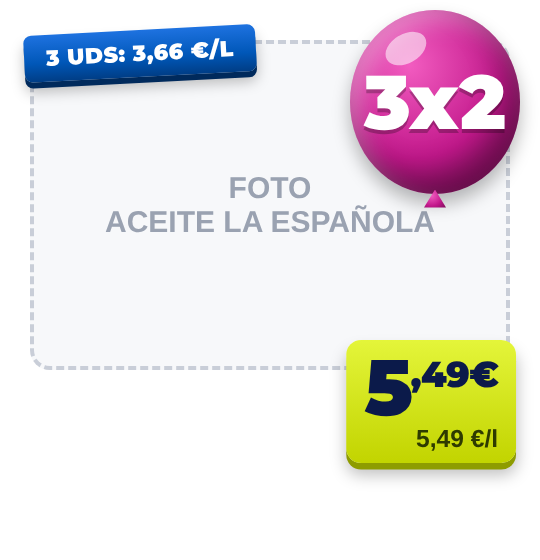
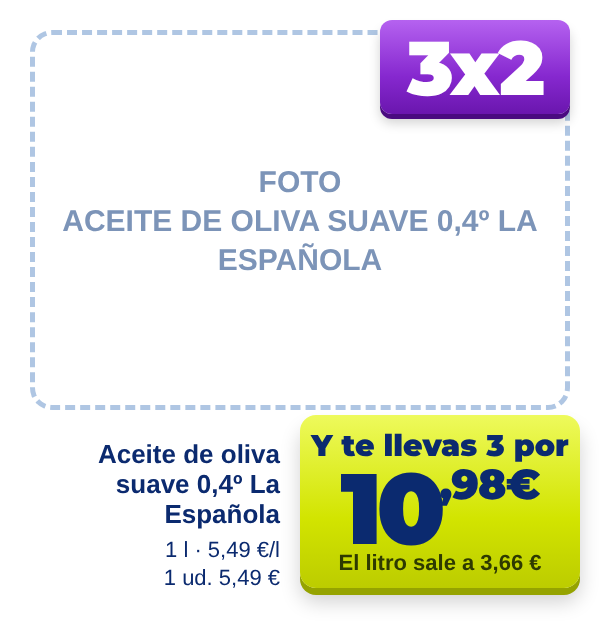
Rediseño calcado al folleto: portada de cielo, globos foil y etiquetas lima
Claude-Session: https://claude.ai/code/session_014n8fruw4BUtYLKWozkJouR

diff --git a/index.html b/index.html
@@ -1,169 +1,68 @@
 <!DOCTYPE html>
 <html lang="es" xmlns="http://www.w3.org/1999/xhtml">
-<head>
-<meta charset="UTF-8">
-<meta name="viewport" content="width=device-width, initial-scale=1.0">
-<meta name="x-apple-disable-message-reformatting">
+<head><meta charset="UTF-8"><meta name="viewport" content="width=device-width, initial-scale=1.0"><meta name="x-apple-disable-message-reformatting">
 <title>Black Friday Mercaviva: hasta −70 %</title>
 <style>
-body{margin:0;padding:0;background:#0B1A4A}
-a{text-decoration:none}
+body{margin:0;padding:0;background:#EEF3F9}
 @media only screen and (max-width:620px){
  .wrap{width:100%!important}
- .col{display:block!important;width:100%!important;max-width:100%!important}
- .gap{display:block!important;width:100%!important;height:20px!important}
+ .col{display:block!important;width:100%!important;max-width:100%!important;box-sizing:border-box!important}
  .fluid{width:100%!important;max-width:100%!important;height:auto!important}
- .hdr td{display:block!important;width:100%!important;box-sizing:border-box!important;text-align:center!important;padding:10px 16px!important}
 }
-</style>
-</head>
-<body style="margin:0;padding:0;background:#0B1A4A">
-<div style="display:none;max-height:0;overflow:hidden;mso-hide:all;font-size:1px;line-height:1px;color:#0B1A4A;opacity:0">Teles, sonido y hasta el aceite al 3x2. Solo hasta el 27 de noviembre.&#847;&zwnj;&nbsp;&#847;&zwnj;&nbsp;&#847;&zwnj;&nbsp;&#847;&zwnj;&nbsp;&#847;&zwnj;&nbsp;&#847;&zwnj;&nbsp;&#847;&zwnj;&nbsp;&#847;&zwnj;&nbsp;</div>
-<table role="presentation" cellpadding="0" cellspacing="0" border="0" width="100%" bgcolor="#0B1A4A" style="background:#0B1A4A">
-<tr><td align="center" style="padding:0">
-<table role="presentation" class="wrap" cellpadding="0" cellspacing="0" border="0" width="600" style="width:600px;max-width:600px;background:#0B1A4A">
+</style></head>
+<body style="margin:0;padding:0;background:#EEF3F9">
+<div style="display:none;max-height:0;overflow:hidden;mso-hide:all;font-size:1px;line-height:1px;color:#EEF3F9;opacity:0">Teles, sonido y hasta el aceite al 3x2. Solo hasta el 27 de noviembre.&#847;&zwnj;&nbsp;&#847;&zwnj;&nbsp;&#847;&zwnj;&nbsp;&#847;&zwnj;&nbsp;&#847;&zwnj;&nbsp;&#847;&zwnj;&nbsp;</div>
+<table role="presentation" cellpadding="0" cellspacing="0" border="0" width="100%" bgcolor="#EEF3F9" style="background:#EEF3F9"><tr><td align="center" style="padding:0">
+<table role="presentation" class="wrap" cellpadding="0" cellspacing="0" border="0" width="600" bgcolor="#FFFFFF" style="width:600px;max-width:600px;background:#FFFFFF">
+<tr><td align="center" style="padding:10px 16px;font-family:Arial, Helvetica, sans-serif;font-size:12px;line-height:18px;color:#4A5878;background:#EEF3F9">
+<strong style="color:#0B2A6F">Publicidad</strong> · Ejercicio académico. Mercaviva es una marca ficticia; no es una comunicación oficial de Carrefour.<br>
+¿No ves bien este email? <a href="{$url}" target="_blank" style="color:#0057B8;text-decoration:underline">Ábrelo en el navegador</a></td></tr>
+<tr><td style="padding:0"><a href="https://www.carrefour.es/lavadora-lg-f2x50s9tlb-9-kg-carga-frontal-1200-rpm-wifi-clase-a-blanco/VC4A-32514266/p?utm_source=newsletter&utm_medium=email&utm_campaign=black_friday_2026&utm_content=lavadora_lg" target="_blank"><img src="https://caarlosfdz.github.io/newsletter-mercaviva/bf-cover.png" width="600" alt="Mercaviva. Black Friday: hasta el 70 % de descuento del 20 de octubre al 27 de noviembre" class="fluid" style="display:block;width:100%;max-width:600px;height:auto;border:0"></a></td></tr>
+<tr><td style="padding:0"><a href="https://www.carrefour.es/lavadora-lg-f2x50s9tlb-9-kg-carga-frontal-1200-rpm-wifi-clase-a-blanco/VC4A-32514266/p?utm_source=newsletter&utm_medium=email&utm_campaign=black_friday_2026&utm_content=lavadora_lg" target="_blank"><img src="https://caarlosfdz.github.io/newsletter-mercaviva/bf-p1.png" width="600" alt="Lavadora LG 9 kg: 164,70 €, antes 549 €, 70 % de descuento" class="fluid" style="display:block;width:100%;max-width:600px;height:auto;border:0"></a></td></tr>
+<tr><td align="center" style="padding:6px 40px 30px"><table role="presentation" cellpadding="0" cellspacing="0" border="0" width="100%"><tr><td align="center" bgcolor="#0057B8" style="border-radius:10px;background:#0057B8">
+<a href="https://www.carrefour.es/lavadora-lg-f2x50s9tlb-9-kg-carga-frontal-1200-rpm-wifi-clase-a-blanco/VC4A-32514266/p?utm_source=newsletter&utm_medium=email&utm_campaign=black_friday_2026&utm_content=lavadora_lg" target="_blank" style="display:block;padding:14px 8px;font-family:Arial, Helvetica, sans-serif;font-size:16px;line-height:20px;font-weight:bold;color:#ffffff;text-decoration:none;text-align:center;border-radius:10px">Lo quiero al −70 %</a></td></tr></table></td></tr>
+<tr><td style="padding:0"><img src="https://caarlosfdz.github.io/newsletter-mercaviva/bf-tit-tecnologia.png" width="600" alt="Ofertas en tecnología: descuentos de hasta el 70 %" class="fluid" style="display:block;width:100%;max-width:600px;height:auto;border:0"></td></tr>
+<tr><td style="padding:0"><table role="presentation" cellpadding="0" cellspacing="0" border="0" width="100%"><tr>
+<td class="col" width="300" valign="top" style="width:300px;vertical-align:top"><a href="https://www.carrefour.es/?utm_source=newsletter&utm_medium=email&utm_campaign=black_friday_2026&utm_content=producto6" target="_blank"><img src="https://caarlosfdz.github.io/newsletter-mercaviva/bf-p6.png" width="300" alt="Producto 6: 95,22 €, antes 218,99 €, −56,5 % y envío gratis" class="fluid" style="display:block;width:100%;max-width:300px;height:auto;border:0"></a>
+<div style="padding:4px 14px 26px"><table role="presentation" cellpadding="0" cellspacing="0" border="0" width="100%"><tr><td align="center" bgcolor="#0057B8" style="border-radius:10px;background:#0057B8">
+<a href="https://www.carrefour.es/?utm_source=newsletter&utm_medium=email&utm_campaign=black_friday_2026&utm_content=producto6" target="_blank" style="display:block;padding:14px 8px;font-family:Arial, Helvetica, sans-serif;font-size:16px;line-height:20px;font-weight:bold;color:#ffffff;text-decoration:none;text-align:center;border-radius:10px">Llévatelo ya</a></td></tr></table></div></td>
+<td class="col" width="300" valign="top" style="width:300px;vertical-align:top"><a href="https://www.carrefour.es/?utm_source=newsletter&utm_medium=email&utm_campaign=black_friday_2026&utm_content=producto2" target="_blank"><img src="https://caarlosfdz.github.io/newsletter-mercaviva/bf-p2.png" width="300" alt="Producto 2: 154,50 €, antes 309 €, −50 %" class="fluid" style="display:block;width:100%;max-width:300px;height:auto;border:0"></a>
+<div style="padding:4px 14px 26px"><table role="presentation" cellpadding="0" cellspacing="0" border="0" width="100%"><tr><td align="center" bgcolor="#0057B8" style="border-radius:10px;background:#0057B8">
+<a href="https://www.carrefour.es/?utm_source=newsletter&utm_medium=email&utm_campaign=black_friday_2026&utm_content=producto2" target="_blank" style="display:block;padding:14px 8px;font-family:Arial, Helvetica, sans-serif;font-size:16px;line-height:20px;font-weight:bold;color:#ffffff;text-decoration:none;text-align:center;border-radius:10px">Aprovecha el −50 %</a></td></tr></table></div></td></tr></table></td></tr>
+<tr><td style="padding:0"><table role="presentation" cellpadding="0" cellspacing="0" border="0" width="100%"><tr>
+<td class="col" width="300" valign="top" style="width:300px;vertical-align:top"><a href="https://www.carrefour.es/?utm_source=newsletter&utm_medium=email&utm_campaign=black_friday_2026&utm_content=producto5" target="_blank"><img src="https://caarlosfdz.github.io/newsletter-mercaviva/bf-p5.png" width="300" alt="Producto 5: 4.877,62 €, antes 6.150,99 €, −20,7 %" class="fluid" style="display:block;width:100%;max-width:300px;height:auto;border:0"></a>
+<div style="padding:4px 14px 26px"><table role="presentation" cellpadding="0" cellspacing="0" border="0" width="100%"><tr><td align="center" bgcolor="#0057B8" style="border-radius:10px;background:#0057B8">
+<a href="https://www.carrefour.es/?utm_source=newsletter&utm_medium=email&utm_campaign=black_friday_2026&utm_content=producto5" target="_blank" style="display:block;padding:14px 8px;font-family:Arial, Helvetica, sans-serif;font-size:16px;line-height:20px;font-weight:bold;color:#ffffff;text-decoration:none;text-align:center;border-radius:10px">Ahorra 1.273 €</a></td></tr></table></div></td>
+<td class="col" width="300" valign="top" style="width:300px;vertical-align:top"><a href="https://www.carrefour.es/?utm_source=newsletter&utm_medium=email&utm_campaign=black_friday_2026&utm_content=producto3" target="_blank"><img src="https://caarlosfdz.github.io/newsletter-mercaviva/bf-p3.png" width="300" alt="Producto 3: súperchollo a 519 €" class="fluid" style="display:block;width:100%;max-width:300px;height:auto;border:0"></a>
+<div style="padding:4px 14px 26px"><table role="presentation" cellpadding="0" cellspacing="0" border="0" width="100%"><tr><td align="center" bgcolor="#0057B8" style="border-radius:10px;background:#0057B8">
+<a href="https://www.carrefour.es/?utm_source=newsletter&utm_medium=email&utm_campaign=black_friday_2026&utm_content=producto3" target="_blank" style="display:block;padding:14px 8px;font-family:Arial, Helvetica, sans-serif;font-size:16px;line-height:20px;font-weight:bold;color:#ffffff;text-decoration:none;text-align:center;border-radius:10px">Ver el súperchollo</a></td></tr></table></div></td></tr></table></td></tr>
 
-<tr><td align="center" style="padding:12px 20px 4px;font-family:Arial, Helvetica, sans-serif;font-size:12px;line-height:18px;color:#B5C3E6">
-<strong style="color:#FFFFFF">Publicidad</strong> · Ejercicio académico. Mercaviva es una marca ficticia; no es una comunicación oficial de Carrefour.<br>
-¿No ves bien este email? <a href="{$url}" target="_blank" style="color:#FFC400;text-decoration:underline">Ábrelo en el navegador</a>
-</td></tr>
-
-<tr><td style="padding:10px 20px 0">
-<table role="presentation" class="hdr" cellpadding="0" cellspacing="0" border="0" width="100%" bgcolor="#FFFFFF" style="background:#FFFFFF;border-radius:14px 14px 0 0">
-<tr><td style="padding:16px 20px" valign="middle"><a href="https://www.mercaviva.es/?utm_source=newsletter&utm_medium=email&utm_campaign=black_friday_2026&utm_content=logo" target="_blank"><img src="https://caarlosfdz.github.io/newsletter-mercaviva/bf-logo.png" width="200" alt="Mercaviva" style="display:inline-block;width:200px;height:auto;border:0"></a></td>
-<td align="right" valign="middle" style="padding:16px 20px;font-family:Arial, Helvetica, sans-serif;font-size:14px;line-height:18px;font-weight:bold;color:#0057B8">DEL 20 DE OCTUBRE<br>AL 27 DE NOVIEMBRE</td></tr>
-</table></td></tr>
-
-<tr><td style="padding:0 20px"><a href="https://www.carrefour.es/lavadora-lg-f2x50s9tlb-9-kg-carga-frontal-1200-rpm-wifi-clase-a-blanco/VC4A-32514266/p?utm_source=newsletter&utm_medium=email&utm_campaign=black_friday_2026&utm_content=lavadora_lg" target="_blank"><img src="https://caarlosfdz.github.io/newsletter-mercaviva/bf-banner.png" width="560" alt="Black Friday: hasta −70 %. Del 20 de octubre al 27 de noviembre" class="fluid" style="display:block;width:100%;max-width:560px;height:auto;border:0"></a></td></tr>
-
-<tr><td style="padding:0 20px 8px">
-<table role="presentation" cellpadding="0" cellspacing="0" border="0" width="100%" bgcolor="#FFFFFF" style="background:#FFFFFF;border-radius:0 0 14px 14px">
-<tr><td><a href="https://www.carrefour.es/lavadora-lg-f2x50s9tlb-9-kg-carga-frontal-1200-rpm-wifi-clase-a-blanco/VC4A-32514266/p?utm_source=newsletter&utm_medium=email&utm_campaign=black_friday_2026&utm_content=lavadora_lg" target="_blank"><img src="https://caarlosfdz.github.io/newsletter-mercaviva/bf-p1.png" width="560" alt="Lavadora LG 9 kg: 164,70 €, antes 549 €, −70 %" class="fluid" style="display:block;width:100%;max-width:560px;height:auto;border:0"></a></td></tr>
-<tr><td style="padding:4px 24px 0;font-family:Arial, Helvetica, sans-serif;font-size:20px;line-height:26px;font-weight:bold;color:#0B1A4A">Lavadora LG F2X50S9TLB 9 kg</td></tr>
-<tr><td style="padding:6px 24px 4px;font-family:Arial, Helvetica, sans-serif;font-size:15px;line-height:21px;color:#4A5468">Carga frontal, 1200 rpm, wifi y clase A. Garantía de por vida en el motor.</td></tr>
-<tr><td align="center" style="padding:8px 20px 14px"><a href="https://www.carrefour.es/lavadora-lg-f2x50s9tlb-9-kg-carga-frontal-1200-rpm-wifi-clase-a-blanco/VC4A-32514266/p?utm_source=newsletter&utm_medium=email&utm_campaign=black_friday_2026&utm_content=lavadora_lg" target="_blank"><img src="https://caarlosfdz.github.io/newsletter-mercaviva/bf-cta.png" width="520" alt="Lo quiero al −70 %" class="fluid" style="display:block;width:100%;max-width:520px;height:auto;border:0"></a></td></tr>
-</table></td></tr>
-
-<tr><td align="center" style="padding:16px 20px 12px"><img src="https://caarlosfdz.github.io/newsletter-mercaviva/bf-tit-tecnologia.png" width="560" alt="Ofertas en tecnología" class="fluid" style="display:block;width:100%;max-width:560px;height:auto;border:0;margin:0 auto"></td></tr>
-<tr><td style="padding:0 20px 20px">
-<table role="presentation" cellpadding="0" cellspacing="0" border="0" width="100%"><tr>
-<td class="col" width="270" valign="top" style="width:270px;vertical-align:top"><table role="presentation" cellpadding="0" cellspacing="0" border="0" width="100%" bgcolor="#FFFFFF" style="background:#FFFFFF;border-radius:14px">
-<tr><td style="padding:0;border-radius:14px 14px 0 0;overflow:hidden"><a href="https://www.carrefour.es/?utm_source=newsletter&utm_medium=email&utm_campaign=black_friday_2026&utm_content=producto6" target="_blank"><img src="https://caarlosfdz.github.io/newsletter-mercaviva/bf-p6.png" width="270" alt="Producto 6" class="fluid" style="display:block;width:100%;max-width:270px;height:auto;border:0;border-radius:14px 14px 0 0"></a></td></tr>
-<tr><td style="padding:4px 16px 0;font-family:Arial, Helvetica, sans-serif;font-size:16px;line-height:21px;font-weight:bold;color:#0B1A4A">Producto 6</td></tr>
-<tr><td style="padding:6px 16px 14px;font-family:Arial, Helvetica, sans-serif;font-size:14px;line-height:19px;color:#4A5468">Nombre y descripción pendientes. Envío gratis.</td></tr>
-<tr><td style="padding:0 16px 18px"><table role="presentation" cellpadding="0" cellspacing="0" border="0" width="100%"><tr>
-<td align="center" bgcolor="#0057B8" style="border-radius:8px;background:#0057B8">
-<a href="https://www.carrefour.es/?utm_source=newsletter&utm_medium=email&utm_campaign=black_friday_2026&utm_content=producto6" target="_blank" style="display:block;padding:14px 10px;font-family:Arial, Helvetica, sans-serif;font-size:16px;font-weight:bold;line-height:20px;color:#ffffff;text-decoration:none;text-align:center;border-radius:8px">Llévatelo ya</a>
-</td></tr></table></td></tr>
-</table></td>
-<td class="gap" width="20" style="width:20px;font-size:0;line-height:0">&nbsp;</td>
-<td class="col" width="270" valign="top" style="width:270px;vertical-align:top"><table role="presentation" cellpadding="0" cellspacing="0" border="0" width="100%" bgcolor="#FFFFFF" style="background:#FFFFFF;border-radius:14px">
-<tr><td style="padding:0;border-radius:14px 14px 0 0;overflow:hidden"><a href="https://www.carrefour.es/?utm_source=newsletter&utm_medium=email&utm_campaign=black_friday_2026&utm_content=producto2" target="_blank"><img src="https://caarlosfdz.github.io/newsletter-mercaviva/bf-p2.png" width="270" alt="Producto 2" class="fluid" style="display:block;width:100%;max-width:270px;height:auto;border:0;border-radius:14px 14px 0 0"></a></td></tr>
-<tr><td style="padding:4px 16px 0;font-family:Arial, Helvetica, sans-serif;font-size:16px;line-height:21px;font-weight:bold;color:#0B1A4A">Producto 2</td></tr>
-<tr><td style="padding:6px 16px 14px;font-family:Arial, Helvetica, sans-serif;font-size:14px;line-height:19px;color:#4A5468">Nombre y descripción pendientes.</td></tr>
-<tr><td style="padding:0 16px 18px"><table role="presentation" cellpadding="0" cellspacing="0" border="0" width="100%"><tr>
-<td align="center" bgcolor="#0057B8" style="border-radius:8px;background:#0057B8">
-<a href="https://www.carrefour.es/?utm_source=newsletter&utm_medium=email&utm_campaign=black_friday_2026&utm_content=producto2" target="_blank" style="display:block;padding:14px 10px;font-family:Arial, Helvetica, sans-serif;font-size:16px;font-weight:bold;line-height:20px;color:#ffffff;text-decoration:none;text-align:center;border-radius:8px">Aprovecha el −50 %</a>
-</td></tr></table></td></tr>
-</table></td>
-</tr></table></td></tr>
-<tr><td style="padding:0 20px 20px">
-<table role="presentation" cellpadding="0" cellspacing="0" border="0" width="100%"><tr>
-<td class="col" width="270" valign="top" style="width:270px;vertical-align:top"><table role="presentation" cellpadding="0" cellspacing="0" border="0" width="100%" bgcolor="#FFFFFF" style="background:#FFFFFF;border-radius:14px">
-<tr><td style="padding:0;border-radius:14px 14px 0 0;overflow:hidden"><a href="https://www.carrefour.es/?utm_source=newsletter&utm_medium=email&utm_campaign=black_friday_2026&utm_content=producto5" target="_blank"><img src="https://caarlosfdz.github.io/newsletter-mercaviva/bf-p5.png" width="270" alt="Producto 5" class="fluid" style="display:block;width:100%;max-width:270px;height:auto;border:0;border-radius:14px 14px 0 0"></a></td></tr>
-<tr><td style="padding:4px 16px 0;font-family:Arial, Helvetica, sans-serif;font-size:16px;line-height:21px;font-weight:bold;color:#0B1A4A">Producto 5</td></tr>
-<tr><td style="padding:6px 16px 14px;font-family:Arial, Helvetica, sans-serif;font-size:14px;line-height:19px;color:#4A5468">Nombre y descripción pendientes.</td></tr>
-<tr><td style="padding:0 16px 18px"><table role="presentation" cellpadding="0" cellspacing="0" border="0" width="100%"><tr>
-<td align="center" bgcolor="#0057B8" style="border-radius:8px;background:#0057B8">
-<a href="https://www.carrefour.es/?utm_source=newsletter&utm_medium=email&utm_campaign=black_friday_2026&utm_content=producto5" target="_blank" style="display:block;padding:14px 10px;font-family:Arial, Helvetica, sans-serif;font-size:16px;font-weight:bold;line-height:20px;color:#ffffff;text-decoration:none;text-align:center;border-radius:8px">Ahorra 1.273 €</a>
-</td></tr></table></td></tr>
-</table></td>
-<td class="gap" width="20" style="width:20px;font-size:0;line-height:0">&nbsp;</td>
-<td class="col" width="270" valign="top" style="width:270px;vertical-align:top"><table role="presentation" cellpadding="0" cellspacing="0" border="0" width="100%" bgcolor="#FFFFFF" style="background:#FFFFFF;border-radius:14px">
-<tr><td style="padding:0;border-radius:14px 14px 0 0;overflow:hidden"><a href="https://www.carrefour.es/?utm_source=newsletter&utm_medium=email&utm_campaign=black_friday_2026&utm_content=producto3" target="_blank"><img src="https://caarlosfdz.github.io/newsletter-mercaviva/bf-p3.png" width="270" alt="Producto 3" class="fluid" style="display:block;width:100%;max-width:270px;height:auto;border:0;border-radius:14px 14px 0 0"></a></td></tr>
-<tr><td style="padding:4px 16px 0;font-family:Arial, Helvetica, sans-serif;font-size:16px;line-height:21px;font-weight:bold;color:#0B1A4A">Producto 3</td></tr>
-<tr><td style="padding:6px 16px 14px;font-family:Arial, Helvetica, sans-serif;font-size:14px;line-height:19px;color:#4A5468">Nombre y descripción pendientes.</td></tr>
-<tr><td style="padding:0 16px 18px"><table role="presentation" cellpadding="0" cellspacing="0" border="0" width="100%"><tr>
-<td align="center" bgcolor="#0057B8" style="border-radius:8px;background:#0057B8">
-<a href="https://www.carrefour.es/?utm_source=newsletter&utm_medium=email&utm_campaign=black_friday_2026&utm_content=producto3" target="_blank" style="display:block;padding:14px 10px;font-family:Arial, Helvetica, sans-serif;font-size:16px;font-weight:bold;line-height:20px;color:#ffffff;text-decoration:none;text-align:center;border-radius:8px">Ver el súperchollo</a>
-</td></tr></table></td></tr>
-</table></td>
-</tr></table></td></tr>
-<tr><td style="padding:0 20px 20px"><table role="presentation" cellpadding="0" cellspacing="0" border="0" width="100%" bgcolor="#FFFFFF" style="background:#FFFFFF;border-radius:14px">
-<tr><td style="padding:0;border-radius:14px 14px 0 0;overflow:hidden"><a href="https://www.carrefour.es/?utm_source=newsletter&utm_medium=email&utm_campaign=black_friday_2026&utm_content=producto4" target="_blank"><img src="https://caarlosfdz.github.io/newsletter-mercaviva/bf-p4.png" width="560" alt="Producto 4" class="fluid" style="display:block;width:100%;max-width:560px;height:auto;border:0;border-radius:14px 14px 0 0"></a></td></tr>
-<tr><td style="padding:4px 16px 0;font-family:Arial, Helvetica, sans-serif;font-size:16px;line-height:21px;font-weight:bold;color:#0B1A4A">Producto 4</td></tr>
-<tr><td style="padding:6px 16px 14px;font-family:Arial, Helvetica, sans-serif;font-size:14px;line-height:19px;color:#4A5468">Precompra con envío gratis. Nombre pendiente.</td></tr>
-<tr><td style="padding:0 16px 18px"><table role="presentation" cellpadding="0" cellspacing="0" border="0" width="100%"><tr>
-<td align="center" bgcolor="#0057B8" style="border-radius:8px;background:#0057B8">
-<a href="https://www.carrefour.es/?utm_source=newsletter&utm_medium=email&utm_campaign=black_friday_2026&utm_content=producto4" target="_blank" style="display:block;padding:14px 10px;font-family:Arial, Helvetica, sans-serif;font-size:16px;font-weight:bold;line-height:20px;color:#ffffff;text-decoration:none;text-align:center;border-radius:8px">Resérvalo ya</a>
-</td></tr></table></td></tr>
-</table></td></tr>
-
-<tr><td align="center" style="padding:8px 20px 12px"><img src="https://caarlosfdz.github.io/newsletter-mercaviva/bf-tit-compra.png" width="560" alt="Ofertas en tu compra" class="fluid" style="display:block;width:100%;max-width:560px;height:auto;border:0;margin:0 auto"></td></tr>
-<tr><td style="padding:0 20px 20px">
-<table role="presentation" cellpadding="0" cellspacing="0" border="0" width="100%"><tr>
-<td class="col" width="270" valign="top" style="width:270px;vertical-align:top"><table role="presentation" cellpadding="0" cellspacing="0" border="0" width="100%" bgcolor="#FFFFFF" style="background:#FFFFFF;border-radius:14px">
-<tr><td style="padding:0;border-radius:14px 14px 0 0;overflow:hidden"><a href="https://www.carrefour.es/?utm_source=newsletter&utm_medium=email&utm_campaign=black_friday_2026&utm_content=aceite_coosur" target="_blank"><img src="https://caarlosfdz.github.io/newsletter-mercaviva/bf-p9.png" width="270" alt="Aceite de oliva virgen Serie Oro Coosur 1 l" class="fluid" style="display:block;width:100%;max-width:270px;height:auto;border:0;border-radius:14px 14px 0 0"></a></td></tr>
-<tr><td style="padding:4px 16px 0;font-family:Arial, Helvetica, sans-serif;font-size:16px;line-height:21px;font-weight:bold;color:#0B1A4A">Aceite de oliva virgen Serie Oro Coosur 1 l</td></tr>
-<tr><td style="padding:6px 16px 14px;font-family:Arial, Helvetica, sans-serif;font-size:14px;line-height:19px;color:#4A5468">Llévate 3 y paga 2.</td></tr>
-<tr><td style="padding:0 16px 18px"><table role="presentation" cellpadding="0" cellspacing="0" border="0" width="100%"><tr>
-<td align="center" bgcolor="#0057B8" style="border-radius:8px;background:#0057B8">
-<a href="https://www.carrefour.es/?utm_source=newsletter&utm_medium=email&utm_campaign=black_friday_2026&utm_content=aceite_coosur" target="_blank" style="display:block;padding:14px 10px;font-family:Arial, Helvetica, sans-serif;font-size:16px;font-weight:bold;line-height:20px;color:#ffffff;text-decoration:none;text-align:center;border-radius:8px">Llévate 3, paga 2</a>
-</td></tr></table></td></tr>
-</table></td>
-<td class="gap" width="20" style="width:20px;font-size:0;line-height:0">&nbsp;</td>
-<td class="col" width="270" valign="top" style="width:270px;vertical-align:top"><table role="presentation" cellpadding="0" cellspacing="0" border="0" width="100%" bgcolor="#FFFFFF" style="background:#FFFFFF;border-radius:14px">
-<tr><td style="padding:0;border-radius:14px 14px 0 0;overflow:hidden"><a href="https://www.carrefour.es/?utm_source=newsletter&utm_medium=email&utm_campaign=black_friday_2026&utm_content=aceite_la_espanola" target="_blank"><img src="https://caarlosfdz.github.io/newsletter-mercaviva/bf-p10.png" width="270" alt="Aceite de oliva suave 0,4º La Española 1 l" class="fluid" style="display:block;width:100%;max-width:270px;height:auto;border:0;border-radius:14px 14px 0 0"></a></td></tr>
-<tr><td style="padding:4px 16px 0;font-family:Arial, Helvetica, sans-serif;font-size:16px;line-height:21px;font-weight:bold;color:#0B1A4A">Aceite de oliva suave 0,4º La Española 1 l</td></tr>
-<tr><td style="padding:6px 16px 14px;font-family:Arial, Helvetica, sans-serif;font-size:14px;line-height:19px;color:#4A5468">Llévate 3 y paga 2.</td></tr>
-<tr><td style="padding:0 16px 18px"><table role="presentation" cellpadding="0" cellspacing="0" border="0" width="100%"><tr>
-<td align="center" bgcolor="#0057B8" style="border-radius:8px;background:#0057B8">
-<a href="https://www.carrefour.es/?utm_source=newsletter&utm_medium=email&utm_campaign=black_friday_2026&utm_content=aceite_la_espanola" target="_blank" style="display:block;padding:14px 10px;font-family:Arial, Helvetica, sans-serif;font-size:16px;font-weight:bold;line-height:20px;color:#ffffff;text-decoration:none;text-align:center;border-radius:8px">Aprovecha el 3x2</a>
-</td></tr></table></td></tr>
-</table></td>
-</tr></table></td></tr>
-<tr><td style="padding:0 20px 20px">
-<table role="presentation" cellpadding="0" cellspacing="0" border="0" width="100%"><tr>
-<td class="col" width="270" valign="top" style="width:270px;vertical-align:top"><table role="presentation" cellpadding="0" cellspacing="0" border="0" width="100%" bgcolor="#FFFFFF" style="background:#FFFFFF;border-radius:14px">
-<tr><td style="padding:0;border-radius:14px 14px 0 0;overflow:hidden"><a href="https://www.carrefour.es/?utm_source=newsletter&utm_medium=email&utm_campaign=black_friday_2026&utm_content=salmon_ahumado" target="_blank"><img src="https://caarlosfdz.github.io/newsletter-mercaviva/bf-p7.png" width="270" alt="Salmón ahumado noruego Extra 100 g" class="fluid" style="display:block;width:100%;max-width:270px;height:auto;border:0;border-radius:14px 14px 0 0"></a></td></tr>
-<tr><td style="padding:4px 16px 0;font-family:Arial, Helvetica, sans-serif;font-size:16px;line-height:21px;font-weight:bold;color:#0B1A4A">Salmón ahumado noruego Extra 100 g</td></tr>
-<tr><td style="padding:6px 16px 14px;font-family:Arial, Helvetica, sans-serif;font-size:14px;line-height:19px;color:#4A5468">3,69 € (36,90 €/kg). La 2.ª unidad, al 50 %.</td></tr>
-<tr><td style="padding:0 16px 18px"><table role="presentation" cellpadding="0" cellspacing="0" border="0" width="100%"><tr>
-<td align="center" bgcolor="#0057B8" style="border-radius:8px;background:#0057B8">
-<a href="https://www.carrefour.es/?utm_source=newsletter&utm_medium=email&utm_campaign=black_friday_2026&utm_content=salmon_ahumado" target="_blank" style="display:block;padding:14px 10px;font-family:Arial, Helvetica, sans-serif;font-size:16px;font-weight:bold;line-height:20px;color:#ffffff;text-decoration:none;text-align:center;border-radius:8px">Añadir a la cesta</a>
-</td></tr></table></td></tr>
-</table></td>
-<td class="gap" width="20" style="width:20px;font-size:0;line-height:0">&nbsp;</td>
-<td class="col" width="270" valign="top" style="width:270px;vertical-align:top"><table role="presentation" cellpadding="0" cellspacing="0" border="0" width="100%" bgcolor="#FFFFFF" style="background:#FFFFFF;border-radius:14px">
-<tr><td style="padding:0;border-radius:14px 14px 0 0;overflow:hidden"><a href="https://www.carrefour.es/?utm_source=newsletter&utm_medium=email&utm_campaign=black_friday_2026&utm_content=lubina" target="_blank"><img src="https://caarlosfdz.github.io/newsletter-mercaviva/bf-p8.png" width="270" alt="Lubina 600 g aprox." class="fluid" style="display:block;width:100%;max-width:270px;height:auto;border:0;border-radius:14px 14px 0 0"></a></td></tr>
-<tr><td style="padding:4px 16px 0;font-family:Arial, Helvetica, sans-serif;font-size:16px;line-height:21px;font-weight:bold;color:#0B1A4A">Lubina 600 g aprox.</td></tr>
-<tr><td style="padding:6px 16px 14px;font-family:Arial, Helvetica, sans-serif;font-size:14px;line-height:19px;color:#4A5468">De lonja, lista para el horno.</td></tr>
-<tr><td style="padding:0 16px 18px"><table role="presentation" cellpadding="0" cellspacing="0" border="0" width="100%"><tr>
-<td align="center" bgcolor="#0057B8" style="border-radius:8px;background:#0057B8">
-<a href="https://www.carrefour.es/?utm_source=newsletter&utm_medium=email&utm_campaign=black_friday_2026&utm_content=lubina" target="_blank" style="display:block;padding:14px 10px;font-family:Arial, Helvetica, sans-serif;font-size:16px;font-weight:bold;line-height:20px;color:#ffffff;text-decoration:none;text-align:center;border-radius:8px">Quiero esta lubina</a>
-</td></tr></table></td></tr>
-</table></td>
-</tr></table></td></tr>
-
-<tr><td style="padding:0 20px 20px">
-<table role="presentation" cellpadding="0" cellspacing="0" border="0" width="100%" bgcolor="#0057B8" style="background:#0057B8;border-radius:14px">
-<tr><td align="center" style="padding:18px 16px;font-family:Arial, Helvetica, sans-serif;font-size:15px;line-height:22px;color:#FFFFFF">
-<strong style="color:#FFC400">Envío gratis</strong> en los productos marcados · <strong style="color:#FFC400">Hasta fin de existencias</strong><br>Ofertas válidas del 20 de octubre al 27 de noviembre de 2026
-</td></tr></table></td></tr>
-
-<tr><td align="center" style="padding:4px 20px 16px"><img src="https://caarlosfdz.github.io/newsletter-mercaviva/bf-eslogan.png" width="560" alt="Tu compra, con vida. Mercaviva" class="fluid" style="display:block;width:100%;max-width:560px;height:auto;border:0;margin:0 auto"></td></tr>
-
-<tr><td align="center" style="padding:0 20px 8px">
-<a href="https://www.mercaviva.es/?utm_source=newsletter&utm_medium=email&utm_campaign=black_friday_2026&utm_content=footer" target="_blank" style="font-family:Arial, Helvetica, sans-serif;font-size:16px;font-weight:bold;color:#FFFFFF;text-decoration:none">www.mercaviva.es</a></td></tr>
-<tr><td align="center" style="padding:6px 20px 18px"><table role="presentation" cellpadding="0" cellspacing="0" border="0"><tr><td style="padding:0 6px"><a href="https://www.mercaviva.es/redes/instagram" target="_blank"><img src="https://caarlosfdz.github.io/newsletter-mercaviva/bf-ico-instagram.png" width="40" height="40" alt="Instagram" style="display:block;border:0;width:40px;height:40px"></a></td><td style="padding:0 6px"><a href="https://www.mercaviva.es/redes/facebook" target="_blank"><img src="https://caarlosfdz.github.io/newsletter-mercaviva/bf-ico-facebook.png" width="40" height="40" alt="Facebook" style="display:block;border:0;width:40px;height:40px"></a></td><td style="padding:0 6px"><a href="https://www.mercaviva.es/redes/tiktok" target="_blank"><img src="https://caarlosfdz.github.io/newsletter-mercaviva/bf-ico-tiktok.png" width="40" height="40" alt="TikTok" style="display:block;border:0;width:40px;height:40px"></a></td><td style="padding:0 6px"><a href="https://www.mercaviva.es/redes/youtube" target="_blank"><img src="https://caarlosfdz.github.io/newsletter-mercaviva/bf-ico-youtube.png" width="40" height="40" alt="YouTube" style="display:block;border:0;width:40px;height:40px"></a></td><td style="padding:0 6px"><a href="https://www.mercaviva.es/redes/x" target="_blank"><img src="https://caarlosfdz.github.io/newsletter-mercaviva/bf-ico-x.png" width="40" height="40" alt="X" style="display:block;border:0;width:40px;height:40px"></a></td></tr></table></td></tr>
-
-<tr><td style="padding:0 24px 28px;font-family:Arial, Helvetica, sans-serif;font-size:12px;line-height:18px;color:#B5C3E6">
-<p style="margin:0 0 10px"><strong style="color:#FFFFFF">Condiciones de las promociones.</strong> Válidas del 20/10/2026 al 27/11/2026 o hasta fin de existencias. <strong>3x2:</strong> al comprar 3 unidades del mismo producto, la de menor precio sale gratis. <strong>2.ª ud. al 50 %:</strong> descuento del 50 % en la segunda unidad del mismo producto. <strong>Envío gratis:</strong> solo en los productos indicados y en envíos a la península. Los precios incluyen IVA. Descuentos calculados sobre el precio anterior indicado.</p>
-<p style="margin:0 0 10px">Recibes este email porque estás suscrito a la newsletter de Mercaviva. Remitente: Mercaviva Supermercados, S.A. (empresa ficticia), C/ Ejemplo, 1, 28000 Madrid. Puedes consultar nuestra <a href="https://www.mercaviva.es/privacidad" target="_blank" style="color:#FFC400;text-decoration:underline">política de privacidad</a> o <a href="{$unsubscribe}" target="_blank" style="color:#FFC400;text-decoration:underline">darte de baja</a> en cualquier momento.</p>
-<p style="margin:0;color:#FFFFFF"><strong>Ejercicio académico. Mercaviva es una marca ficticia; no es una comunicación oficial de Carrefour.</strong></p>
-</td></tr>
-
-</table>
-</td></tr></table>
-</body>
-</html>
+<tr><td style="padding:0"><table role="presentation" cellpadding="0" cellspacing="0" border="0" width="100%"><tr>
+<td class="col" width="300" valign="top" style="width:300px;vertical-align:top"><a href="https://www.carrefour.es/?utm_source=newsletter&utm_medium=email&utm_campaign=black_friday_2026&utm_content=producto4" target="_blank"><img src="https://caarlosfdz.github.io/newsletter-mercaviva/bf-p4.png" width="300" alt="Producto 4 en precompra: 59,90 €, antes 69,99 €, envío gratis" class="fluid" style="display:block;width:100%;max-width:300px;height:auto;border:0"></a>
+<div style="padding:4px 14px 26px"><table role="presentation" cellpadding="0" cellspacing="0" border="0" width="100%"><tr><td align="center" bgcolor="#0057B8" style="border-radius:10px;background:#0057B8">
+<a href="https://www.carrefour.es/?utm_source=newsletter&utm_medium=email&utm_campaign=black_friday_2026&utm_content=producto4" target="_blank" style="display:block;padding:14px 8px;font-family:Arial, Helvetica, sans-serif;font-size:16px;line-height:20px;font-weight:bold;color:#ffffff;text-decoration:none;text-align:center;border-radius:10px">Resérvalo ya</a></td></tr></table></div></td>
+<td class="col" width="300" valign="middle" style="width:300px;vertical-align:middle;padding:20px;font-family:Arial, Helvetica, sans-serif;color:#0B2A6F">
+<p style="margin:0 0 8px;font-size:20px;line-height:24px;font-weight:bold">Envío gratis</p>
+<p style="margin:0;font-size:15px;line-height:21px">En los productos marcados. Ofertas válidas del 20 de octubre al 27 de noviembre o hasta fin de existencias.</p></td></tr></table></td></tr>
+<tr><td style="padding:0"><img src="https://caarlosfdz.github.io/newsletter-mercaviva/bf-tit-compra.png" width="600" alt="Ofertas en tu compra: 3x2, 2.ª unidad al 50 % y precios imbatibles" class="fluid" style="display:block;width:100%;max-width:600px;height:auto;border:0"></td></tr>
+<tr><td style="padding:0"><table role="presentation" cellpadding="0" cellspacing="0" border="0" width="100%"><tr>
+<td class="col" width="300" valign="top" style="width:300px;vertical-align:top"><a href="https://www.carrefour.es/?utm_source=newsletter&utm_medium=email&utm_campaign=black_friday_2026&utm_content=aceite_coosur" target="_blank"><img src="https://caarlosfdz.github.io/newsletter-mercaviva/bf-p9.png" width="300" alt="Aceite Coosur Serie Oro 1 l: 3x2, el litro sale a 4,13 €" class="fluid" style="display:block;width:100%;max-width:300px;height:auto;border:0"></a>
+<div style="padding:4px 14px 26px"><table role="presentation" cellpadding="0" cellspacing="0" border="0" width="100%"><tr><td align="center" bgcolor="#0057B8" style="border-radius:10px;background:#0057B8">
+<a href="https://www.carrefour.es/?utm_source=newsletter&utm_medium=email&utm_campaign=black_friday_2026&utm_content=aceite_coosur" target="_blank" style="display:block;padding:14px 8px;font-family:Arial, Helvetica, sans-serif;font-size:16px;line-height:20px;font-weight:bold;color:#ffffff;text-decoration:none;text-align:center;border-radius:10px">Llévate 3, paga 2</a></td></tr></table></div></td>
+<td class="col" width="300" valign="top" style="width:300px;vertical-align:top"><a href="https://www.carrefour.es/?utm_source=newsletter&utm_medium=email&utm_campaign=black_friday_2026&utm_content=aceite_la_espanola" target="_blank"><img src="https://caarlosfdz.github.io/newsletter-mercaviva/bf-p10.png" width="300" alt="Aceite La Española suave 1 l: 3x2, el litro sale a 3,66 €" class="fluid" style="display:block;width:100%;max-width:300px;height:auto;border:0"></a>
+<div style="padding:4px 14px 26px"><table role="presentation" cellpadding="0" cellspacing="0" border="0" width="100%"><tr><td align="center" bgcolor="#0057B8" style="border-radius:10px;background:#0057B8">
+<a href="https://www.carrefour.es/?utm_source=newsletter&utm_medium=email&utm_campaign=black_friday_2026&utm_content=aceite_la_espanola" target="_blank" style="display:block;padding:14px 8px;font-family:Arial, Helvetica, sans-serif;font-size:16px;line-height:20px;font-weight:bold;color:#ffffff;text-decoration:none;text-align:center;border-radius:10px">Aprovecha el 3x2</a></td></tr></table></div></td></tr></table></td></tr>
+<tr><td style="padding:0"><table role="presentation" cellpadding="0" cellspacing="0" border="0" width="100%"><tr>
+<td class="col" width="300" valign="top" style="width:300px;vertical-align:top"><a href="https://www.carrefour.es/?utm_source=newsletter&utm_medium=email&utm_campaign=black_friday_2026&utm_content=salmon_ahumado" target="_blank"><img src="https://caarlosfdz.github.io/newsletter-mercaviva/bf-p7.png" width="300" alt="Salmón ahumado Extra 100 g: 2.ª unidad al 50 %, cada una a 2,77 €" class="fluid" style="display:block;width:100%;max-width:300px;height:auto;border:0"></a>
+<div style="padding:4px 14px 26px"><table role="presentation" cellpadding="0" cellspacing="0" border="0" width="100%"><tr><td align="center" bgcolor="#0057B8" style="border-radius:10px;background:#0057B8">
+<a href="https://www.carrefour.es/?utm_source=newsletter&utm_medium=email&utm_campaign=black_friday_2026&utm_content=salmon_ahumado" target="_blank" style="display:block;padding:14px 8px;font-family:Arial, Helvetica, sans-serif;font-size:16px;line-height:20px;font-weight:bold;color:#ffffff;text-decoration:none;text-align:center;border-radius:10px">Añadir a la cesta</a></td></tr></table></div></td>
+<td class="col" width="300" valign="top" style="width:300px;vertical-align:top"><a href="https://www.carrefour.es/?utm_source=newsletter&utm_medium=email&utm_campaign=black_friday_2026&utm_content=lubina" target="_blank"><img src="https://caarlosfdz.github.io/newsletter-mercaviva/bf-p8.png" width="300" alt="Lubina 600 g aprox.: 5,39 €, antes 5,97 €" class="fluid" style="display:block;width:100%;max-width:300px;height:auto;border:0"></a>
+<div style="padding:4px 14px 26px"><table role="presentation" cellpadding="0" cellspacing="0" border="0" width="100%"><tr><td align="center" bgcolor="#0057B8" style="border-radius:10px;background:#0057B8">
+<a href="https://www.carrefour.es/?utm_source=newsletter&utm_medium=email&utm_campaign=black_friday_2026&utm_content=lubina" target="_blank" style="display:block;padding:14px 8px;font-family:Arial, Helvetica, sans-serif;font-size:16px;line-height:20px;font-weight:bold;color:#ffffff;text-decoration:none;text-align:center;border-radius:10px">Quiero esta lubina</a></td></tr></table></div></td></tr></table></td></tr>
+<tr><td align="center" style="padding:10px 20px 6px"><a href="https://www.mercaviva.es/?utm_source=newsletter&utm_medium=email&utm_campaign=black_friday_2026&utm_content=footer" target="_blank" style="font-family:Arial, Helvetica, sans-serif;font-size:16px;font-weight:bold;color:#0057B8;text-decoration:none">www.mercaviva.es</a></td></tr>
+<tr><td align="center" style="padding:8px 20px 18px"><table role="presentation" cellpadding="0" cellspacing="0" border="0"><tr><td style="padding:0 6px"><a href="https://www.mercaviva.es/redes/instagram" target="_blank"><img src="https://caarlosfdz.github.io/newsletter-mercaviva/bf-ico-instagram.png" width="40" height="40" alt="Instagram" style="display:block;border:0;width:40px;height:40px"></a></td><td style="padding:0 6px"><a href="https://www.mercaviva.es/redes/facebook" target="_blank"><img src="https://caarlosfdz.github.io/newsletter-mercaviva/bf-ico-facebook.png" width="40" height="40" alt="Facebook" style="display:block;border:0;width:40px;height:40px"></a></td><td style="padding:0 6px"><a href="https://www.mercaviva.es/redes/tiktok" target="_blank"><img src="https://caarlosfdz.github.io/newsletter-mercaviva/bf-ico-tiktok.png" width="40" height="40" alt="TikTok" style="display:block;border:0;width:40px;height:40px"></a></td><td style="padding:0 6px"><a href="https://www.mercaviva.es/redes/youtube" target="_blank"><img src="https://caarlosfdz.github.io/newsletter-mercaviva/bf-ico-youtube.png" width="40" height="40" alt="YouTube" style="display:block;border:0;width:40px;height:40px"></a></td><td style="padding:0 6px"><a href="https://www.mercaviva.es/redes/x" target="_blank"><img src="https://caarlosfdz.github.io/newsletter-mercaviva/bf-ico-x.png" width="40" height="40" alt="X" style="display:block;border:0;width:40px;height:40px"></a></td></tr></table></td></tr>
+<tr><td style="padding:16px 24px 26px;font-family:Arial, Helvetica, sans-serif;font-size:12px;line-height:18px;color:#4A5878;background:#EEF3F9">
+<p style="margin:0 0 10px"><strong style="color:#0B2A6F">Condiciones de las promociones.</strong> Válidas del 20/10/2026 al 27/11/2026 o hasta fin de existencias. <strong>3x2:</strong> al comprar 3 unidades del mismo producto, la de menor precio sale gratis. <strong>2.ª ud. al 50 %:</strong> descuento del 50 % en la segunda unidad del mismo producto. <strong>Envío gratis:</strong> solo en los productos indicados y en envíos a la península. Precios con IVA incluido. Descuentos calculados sobre el precio anterior indicado.</p>
+<p style="margin:0 0 10px">Recibes este email porque estás suscrito a la newsletter de Mercaviva. Remitente: Mercaviva Supermercados, S.A. (empresa ficticia), C/ Ejemplo, 1, 28000 Madrid. Consulta nuestra <a href="https://www.mercaviva.es/privacidad" target="_blank" style="color:#0057B8;text-decoration:underline">política de privacidad</a> o <a href="{$unsubscribe}" target="_blank" style="color:#0057B8;text-decoration:underline">date de baja</a> cuando quieras.</p>
+<p style="margin:0;color:#0B2A6F"><strong>Ejercicio académico. Mercaviva es una marca ficticia; no es una comunicación oficial de Carrefour.</strong></p></td></tr>
+</table></td></tr></table></body></html>
